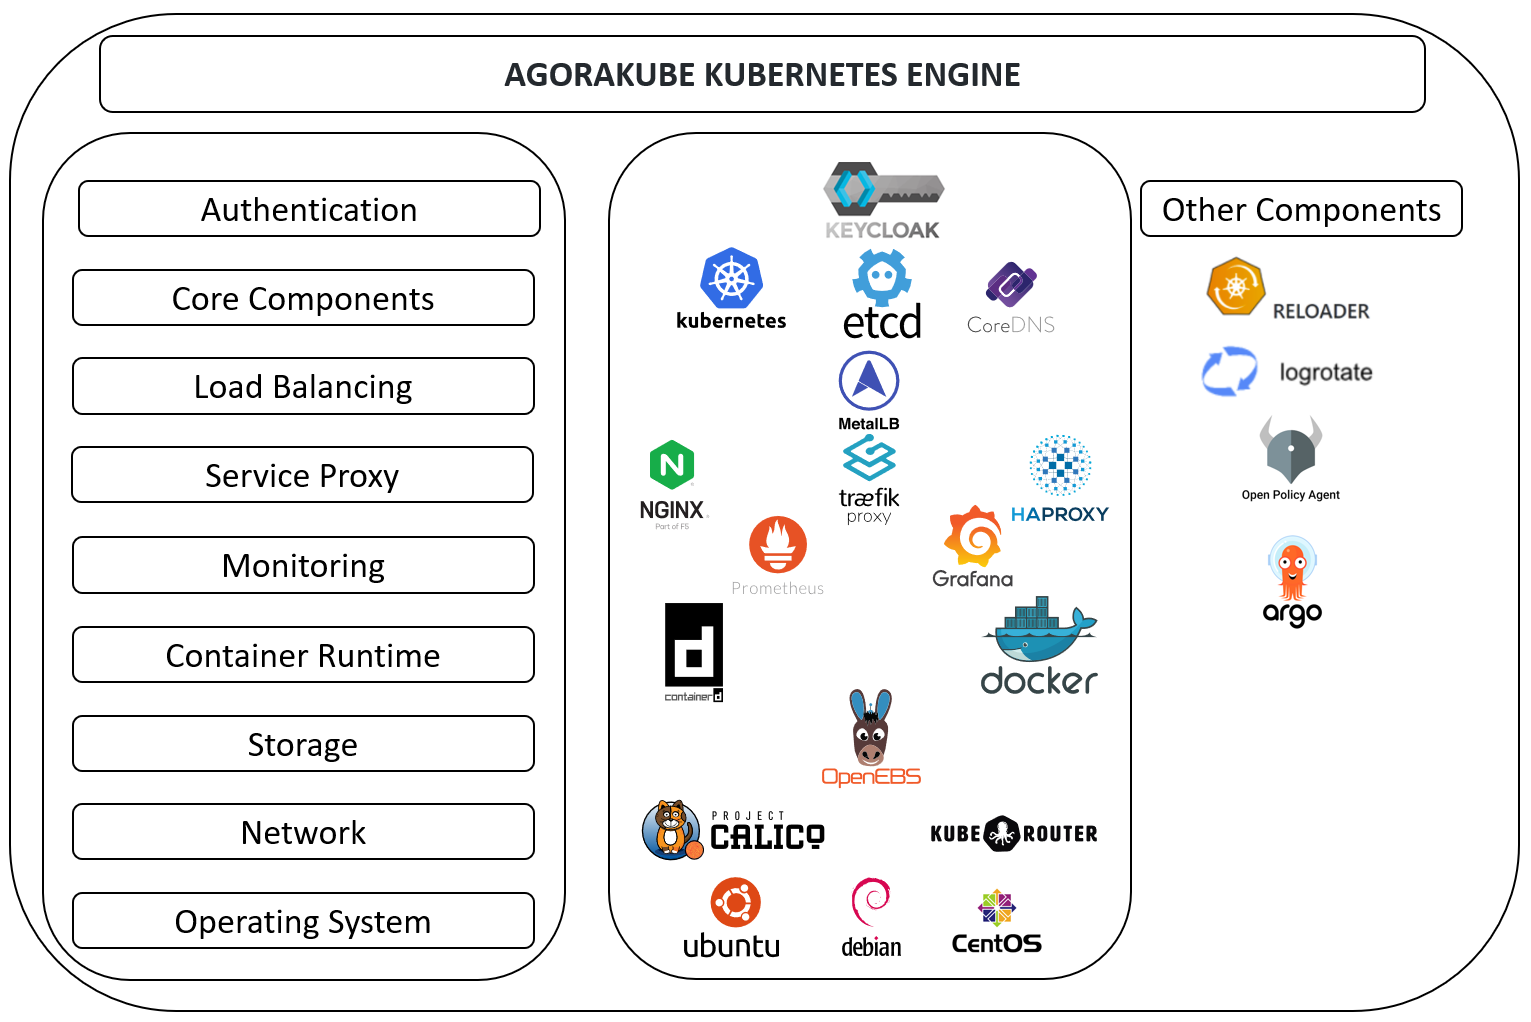
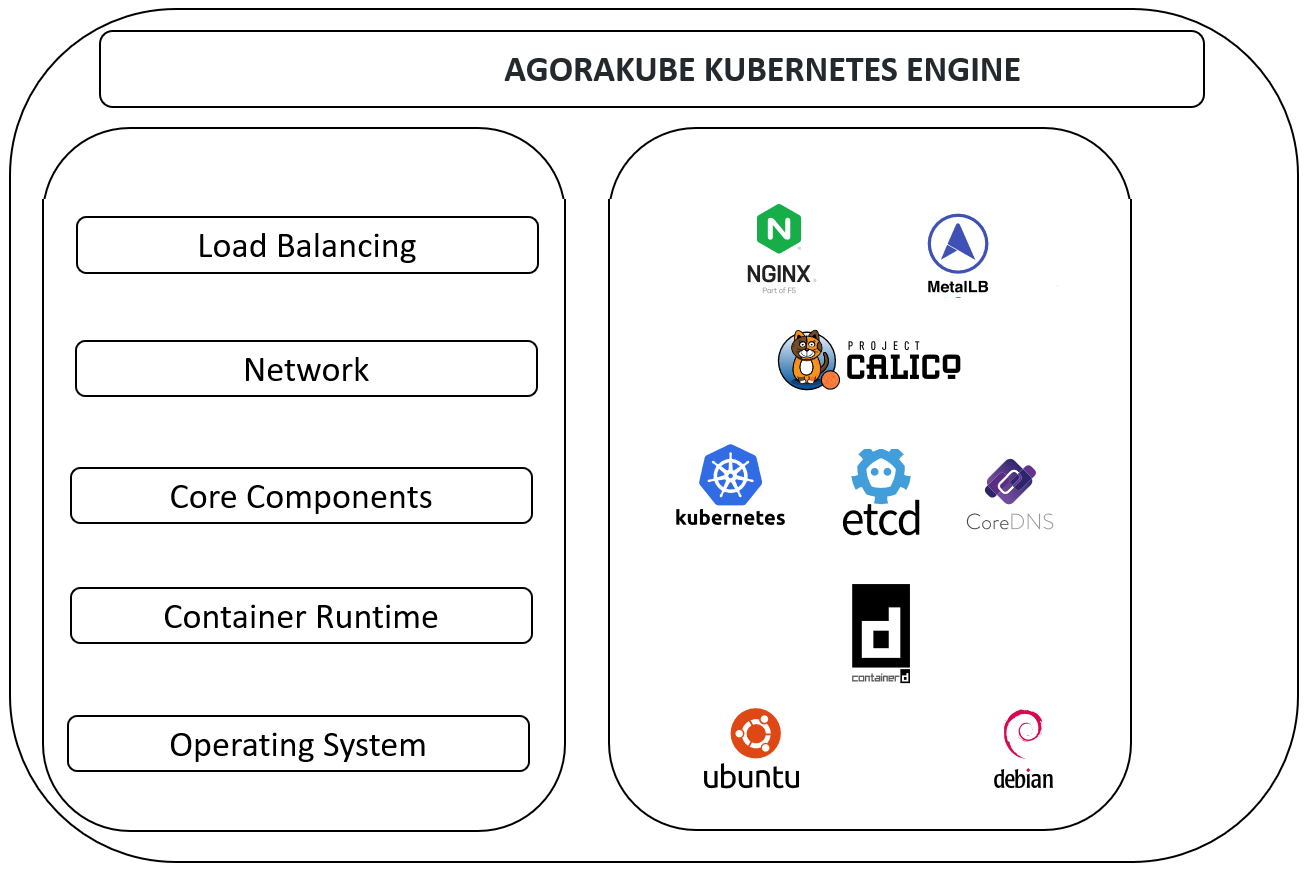
Update Agorakube minimal version (#333)
* Update nginx ingress to 1.0.1

* Update nginx.yaml.j2

* Add URLs to unblock behind a Proxy/Firewall

* docs: update README.md [skip ci]

* docs: update .all-contributorsrc [skip ci]

* Update nginx.yaml.j2

* fix typos and format licensing paragraph readme.md

* docs: update README.md [skip ci]

* docs: update .all-contributorsrc [skip ci]

* Update nginx.yaml.j2

* Update nginx.yaml.j2

* Discover OIDC address and DNS

Discover OIDC address and add an entry for it in /etc/hosts

* Add persistence to Keycloak

* Enable Keycloak persistence parameters

* Update all.yaml

* Update oidc.sh

* Update all.yaml

* Update main.yaml

* Update keycloak.yaml.j2

* Update keycloak-oidc.yaml

* Update keycloak-oidc.yaml

* Update nginx.yaml.j2

* Update ingress-nginx

* Update instructions.md

* Update instructions.md

* Update instructions.md

* Add configurable DNS forwarders

(cherry picked from commit 0dfa8265681c1a7fa3ef241c51702a29691a1634)

* Update instructions.md

* docs: update README.md [skip ci]

* docs: update .all-contributorsrc [skip ci]

* Update Vagrantfile

* Update Vagrantfile

* Update instructions.md

* Feature/monitoring persistance (#301)

* Add Dashboard v2 and v2.1

* Modify vars in all.yaml

* Modify instructions.md

* Modify Vagrantfile

* Delete argocd.yaml.j2

* Typo error

* Typos

* Create argocd.yams.j2

* Rename argocd.yams.j2 to argocd.yaml.j2

* Rename argocd.yaml.j2 to argocd.j2

* Update grafana.yaml.j2

Modify Grafana's dashboard Adress
[…]

diff --git a/docs/instructions.md b/docs/instructions.md
@@ -30,7 +30,6 @@ Below is a diagram of the high-level architecture deployed by AGORAKUBE :
  - The number of **master** nodes to deploy (from 1 to many - 5 nodes for production)
  - The number of **etcd** nodes to deploy (from 1 to many - 5 nodes for production)
  - The number of **worker** nodes to deploy (from 1 to many)
- - The number of **storage** nodes to deploy (from 0 to many - 3 nodes for production needs)
  
  # Prerequisites
 
@@ -40,7 +39,6 @@ This section details the prerequisites to install AGORAKUBE in your environment.
 
 Below are the OS's currently supported on all the machines:
   - Ubuntu 18.04 & 20.04 - amd64
-  - Centos 7 - amd64
   - Debian 10 - amd64
 
 ## Network
@@ -137,10 +135,6 @@ apt install -yqq python3 python3-pip python3-venv
 # On Ubuntu (20.04) or Debian10 use the following commands:
 apt update
 apt install python3.8-venv
-
-
-# Only on Centos7
-yum install -y libselinux-python3
 
 # Create a Python Virtual Environment
 python3 -m venv /usr/local/agorakube-env
@@ -241,9 +235,6 @@ master1  ansible_host=10.10.20.4
 worker2  ansible_host=10.10.20.5
 worker3  ansible_host=10.10.20.6
 
-[storage]
-worker4 ansible_host=10.10.20.20
-
 [all:vars]
 advertise_masters=10.10.20.4
 #advertise_masters=kubernetes.localcluster.lan
@@ -272,8 +263,6 @@ The **masters** section contains information about the masters nodes (K8S Contro
 
 The **workers** section contains information about the workers nodes (K8S Data Plane).
 
-The **storage** section contains information about the storage nodes (K8S Storage Plane ).
-
 The **etc_hosts** section contains a list of DNS entries that will be injected to /etc/hosts files of all hosts. Use it only if you don't have DNS server.
 
 The **all:vars** section contains information about how to connect to K8S nodes.
@@ -291,7 +280,6 @@ Sample file will deploy **containerd** as container runtime, **calico** as CNI p
 
 ```
 ---
----
 agorakube:
   global:
     data_path: /var/agorakube
@@ -308,33 +296,15 @@ agorakube_pki:
 
 agorakube_base_components:
   etcd:
-    release: v3.4.14
+    release: v3.4.16
     upgrade: False
     check: true
     data_path: /var/lib/etcd
-    backup:
-      enabled: False
-      crontab: "*/30 * * * *"
-      storage:
-        capacity: 10Gi
-        enabled: False
-        type: "storageclass"
-        storageclass:
-          name: "default-jiva"
-        persistentvolume:
-          name: "my-pv-backup-etcd"
-          storageclass: "my-storageclass-name"
-        hostpath:
-          nodename: "master1"
-          path: /var/etcd-backup
   kubernetes:
-    release: v1.21.1
-    upgrade: false
-  container:
-    engine: containerd
-# release : Only Supported if container engine is set to docker
-    release: ""
-#    upgrade: false
+    release: v1.23.5
+    upgrade: False
+  cloud_controller_manager:
+    enabled: False
 
 agorakube_network:
   cni_plugin: calico
@@ -352,8 +322,8 @@ agorakube_network:
   nodeport:
     range: 30000-32000
   external_loadbalancing:
-    enabled: False
-    ip_range: 10.20.20.50-10.20.20.250
+    enabled: True
+    ip_range: 10.10.20.50-10.10.20.250
     secret_key: LGyt2l9XftOxEUIeFf2w0eCM7KjyQdkHform0gldYBKMORWkfQIsfXW0sQlo1VjJBB17shY5RtLg0klDNqNq4PAhNaub+olSka61LxV73KN2VaJY/snrZmHbdf/a7DfdzaeQ5pzP6D5O7zbUZwfb5ASOhNrG8aDMY3rkf4ZzHkc=
   kube_proxy:
     mode: ipvs
@@ -361,102 +331,31 @@ agorakube_network:
 
 agorakube_features:
   coredns:
-    release: "1.8.3"
+    release: "1.9.1"
     replicas: 2
-  reloader:
-    enabled: true
-    release: "0.0.89"
-  storage:
-    enabled: true
-    release: "2.9.0"
-    jiva:
-      data_path: /var/openebs
-      fs_type: ext4
-    hostpath:
-      data_path: /var/local-hostpath
   dashboard:
-    enabled: true
-    generate_admin_token: true
+    enabled: True
+    generate_admin_token: True
     release: v2.2.0
   metrics_server:
-    enabled: true
+    enabled: True
   ingress:
     controller: nginx
-    release: v0.46.0
-  supervision:
-    monitoring:
-      enabled: true
-      dashboard: false
-      persistent:
-        enable: true
-        storage:
-          capacity: 4Gi
-          type: "storageclass"
-          storageclass:
-            name: "default-jiva"
-          persistentvolume:
-            name: "my-pv-monitoring"
-            storageclass: "my-storageclass-name"
-          hostpath:
-            nodename: "master1"
-            path: /var/monitoring-persistent
-    dashboard:
-      admin:
-        user: administrator
-        password: P@ssw0rd
-      persistent:
-        enabled: true
-        storage:
-          capacity: 4Gi
-          type: "storageclass"
-          storageclass:
-            name: "default-jiva"
-          persistentvolument:
-            storageclass: "my-storageclass-name"
-          hostpath:
-            nodename: "master1"
-            path: /var/monitoring-persistent
-    logging:
-      enabled: true
-      dashboard: true
-      persistent:
-        enabled: true
-        storage:
-          capacity: 4Gi
-          type: "storageclass"
-          storageclass:
-            name: "default-jiva"
-          persistentvolume:
-            name: "my-pv-monitoring"
-              storageclass: "my-storageclass-name"
-            hostpath:
-              nodename: "master1"
-              path: /var/monitoring-persistent
-  logrotate:
-    enabled: true
-    crontab: "* 2 * * *"
-    day_retention: 14
-  gatekeeper:
-    enabled: true
-    release: v3.4.0
-    replicas:
-      #audit: 1
-      controller_manager: 3
-  argocd:
-    enabled: false
-# keycloak_oidc is an Alpha feature and do not support persistence yet. Use it only for test purpose.
-  keycloak_oidc:
-    enabled: false
-    admin:
-      user: administrator
-      password: P@ssw0rd
-    auto_bootstrap:
-        bootstrap_keycloak: false
-        bootstrap_kube_apiserver: false
-        populate_etc_hosts: true
-        host: oidc.local.lan
+    release: v1.1.0
 
-agorakube_populate_etc_hosts: true
+etc_hosts:
+  - hostname: "localhost"
+    ip: "127.0.0.1"
+
+# Populate /etc/hosts using all inventory groups
+# Note: This will not remove /etc/hosts entries when removed from inventory
+agorakube_populate_etc_hosts: True
+
+# Remove ALL /etc/hosts entries that are NOT defined in the etc_hosts group or etc_hosts variable
+agorakube_remove_etc_hosts: False
+
+# Optionally backup /etc/hosts each time a change is made
+agorakube_backup_etc_hosts: False
 
 # Security
 agorakube_encrypt_etcd_keys:
@@ -465,7 +364,9 @@ agorakube_encrypt_etcd_keys:
   key1:
     secret: 1fJcKt6vBxMt+AkBanoaxFF2O6ytHIkETNgQWv4b/+Q=
 
+agorakube_sonobuoy_mode: False
 #restoration_snapshot_file: /path/snopshot/file Located on {{ etcd_data_directory }}
+
 
 ```
 

diff --git a/README.md b/README.md
@@ -21,7 +21,7 @@
 </p>
 
 This project aims to provide the simplest way to install Kubernetes on AMD-64 bare-metal, virtual & Cloud environments.
-Currently, Ubuntu 18.04 & 20.04,  Centos 7 and Debian 10  are supported, but several other operating systems will be available soon.
+Currently, Ubuntu 18.04 & 20.04,  and Debian 10  are supported, but several other operating systems will be available soon.
 
 Master branch is stable.
 
@@ -38,29 +38,22 @@ The following items are explained in this Readme file for the Agorakube project 
 
 ## What is AGORAKUBE
 
-Agorakube is an easy-to-use, stable Kubernetes distribution (Kubernetes v1.15, 1.16, 1.17, 1.18, 1.19, 1.20, 1.21, 1.22, 1.23).
+Agorakube is an easy-to-use, stable Kubernetes distribution (Kubernetes 1.22, 1.23, 1.24).
 
 Agorakube provides a simple, user-friendly way to deploy and manage K8S Clusters.
 
 Agorakube is based on Ansible scripts that install and configure Kubernetes components (control plane and data plane) quickly on bare-metal / VMs / Cloud Instances, as systemd services.
 
 This distribution is also adaptive by offering the opportunity to customize your deployment to fit your needs :
-* OS : Ubuntu-18.04/20.04-amd64 and Centos 7.X-amd64, Debian-10-amd64
+* OS : Ubuntu-18.04/20.04-amd64 and  Debian-10-amd64
 * DNS Service: CoreDNS
-* Ingress Controller Traefik v2 & HA-Proxy & Nginx (Default)
-* Container Runtime: Containerd (Default) & Docker
+* Nginx Ingress Controller
+* Container Runtime: Containerd
 * Certificats: Self Signed PKI using OpenSSL
-* Storage: OpenEBS (Jiva and HostPath)
-* Monitoring: Prometheus/Grafana/node-Exporter
-* CNI plugin: Kube-router, Calico (VxLAN Cross-Subnet)
+* CNI plugin: Calico (VxLAN Cross-Subnet for pod-to-pod network and NetworkPolicy enabled)
 * MetalLB (L2/ARP mode for external LB)
 * Metrics-Server
 * Kubernetes-Dashboard
-* Kubernetes ConfigMap and Secret Reloader
-* Logrotate
-* OIDC/SSO with Keycloak
-* Open Policy Agent Gatekeeper
-* ArgoCD
 
 ![AGORAKUBE](./images/AGORAKUBE.png)
 
